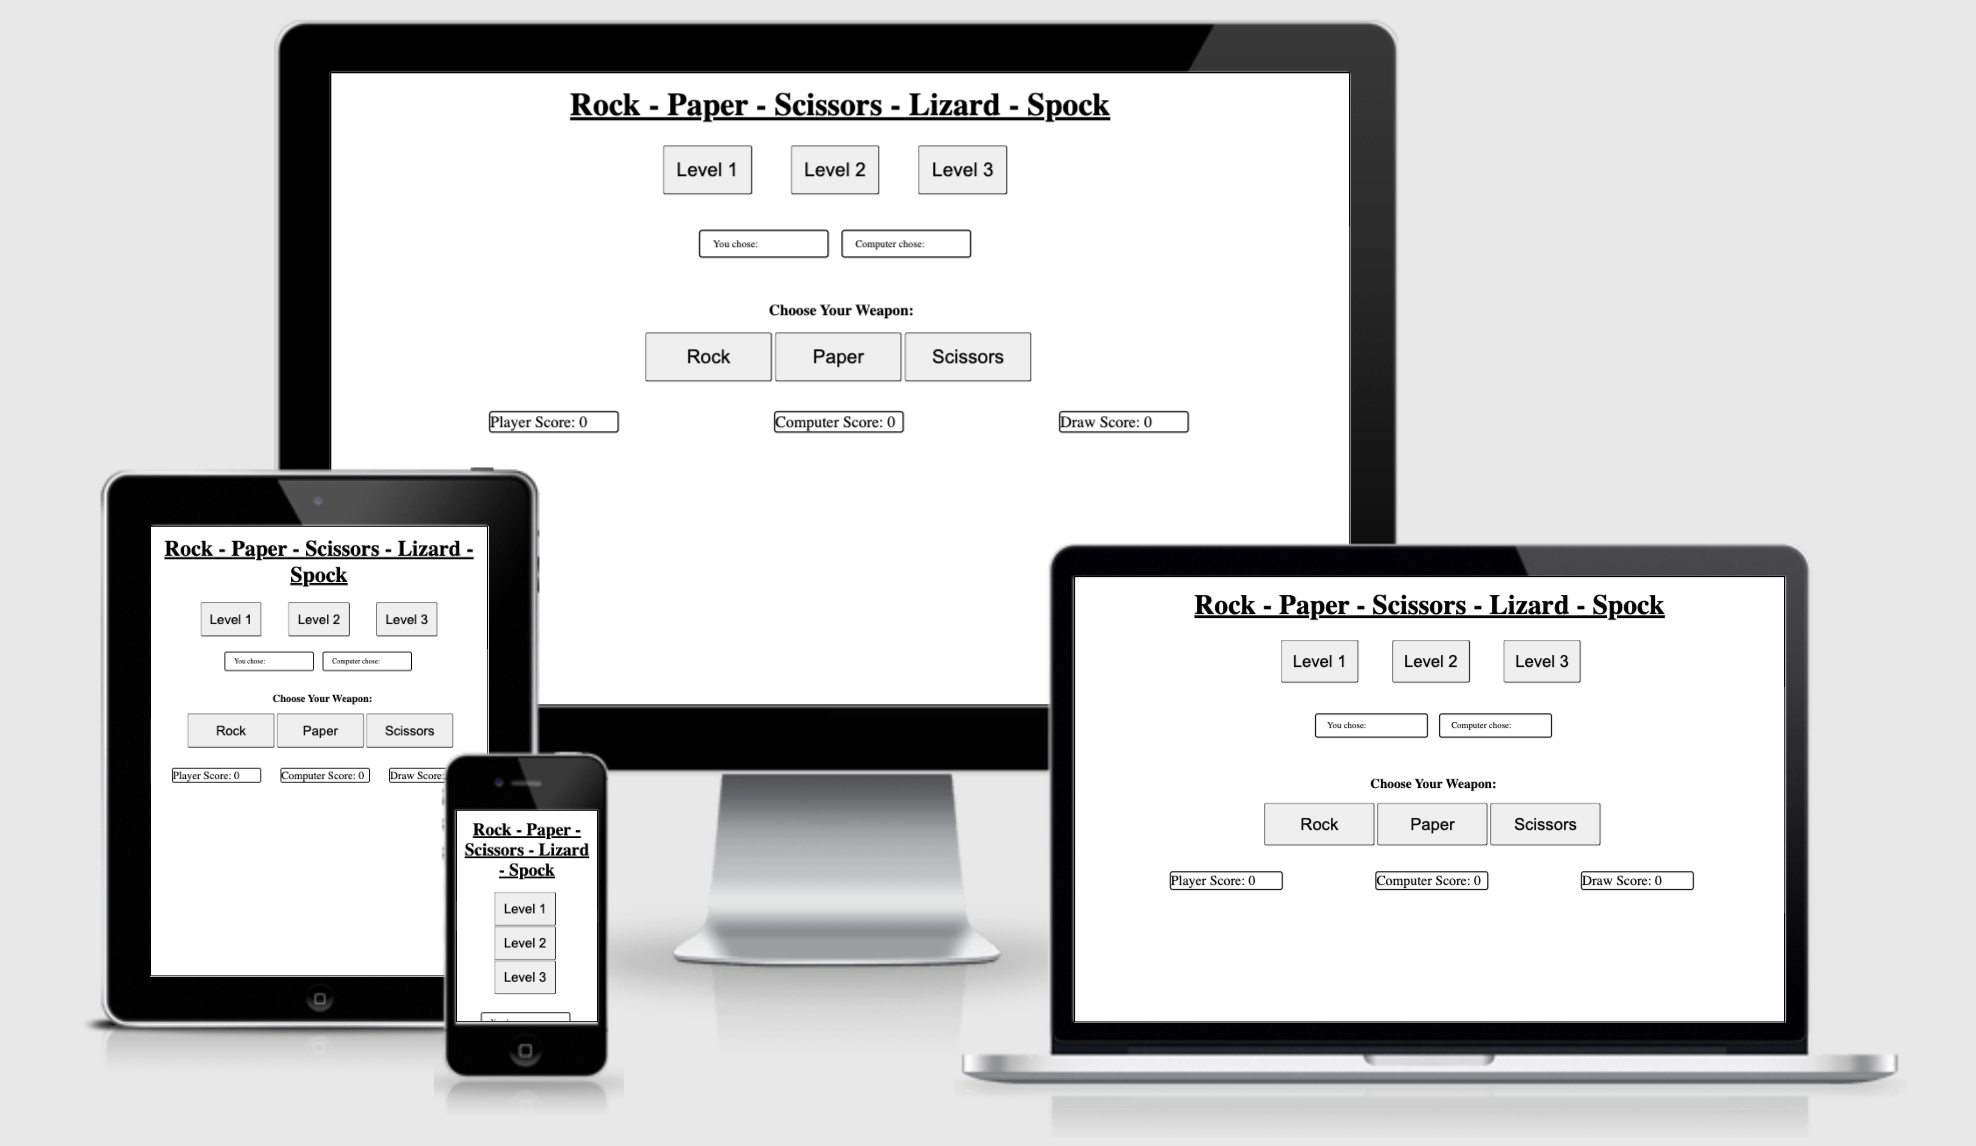
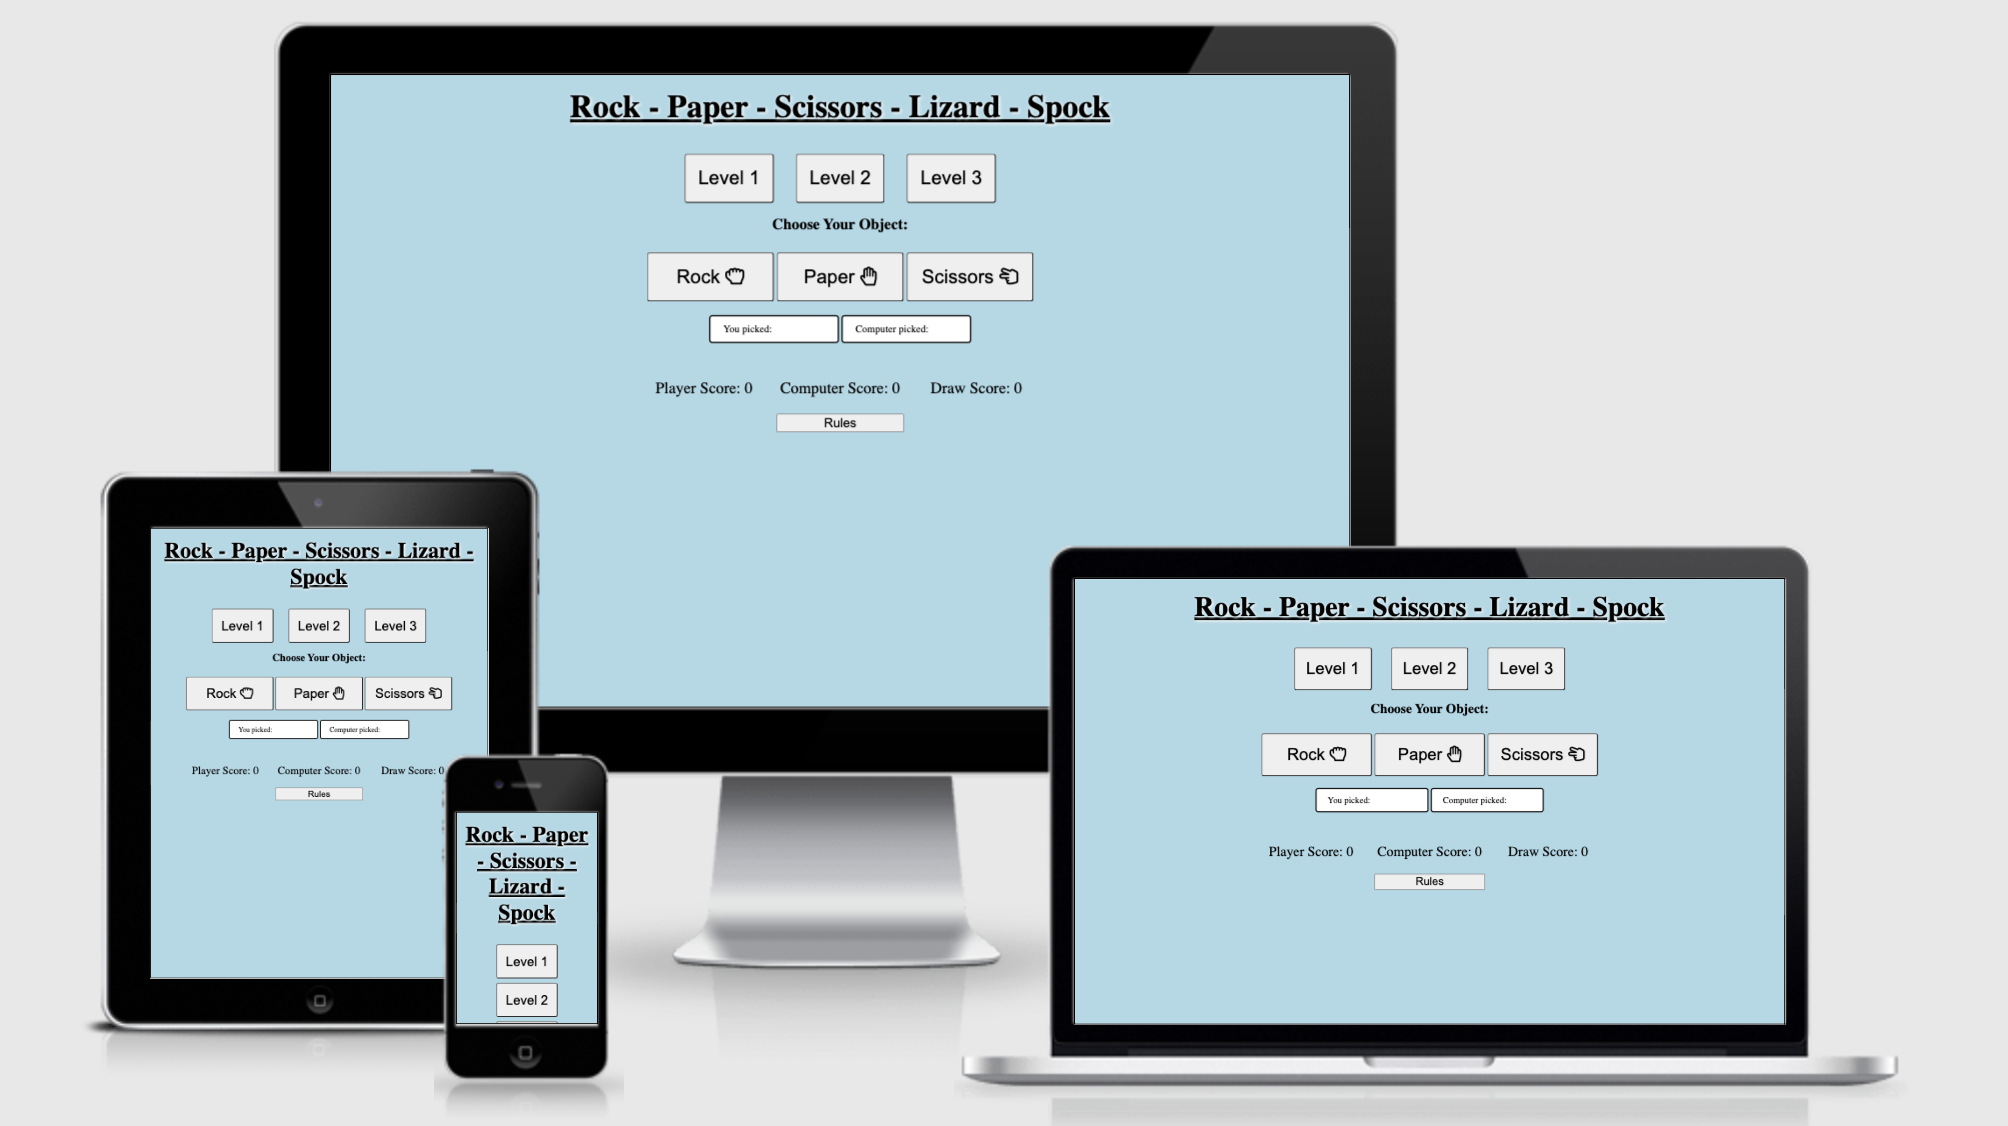
after going through and changing most of my css to make the responsivity better i also implemented a rule button for the user aswell

diff --git a/assets/css/styles.css b/assets/css/styles.css
@@ -4,7 +4,7 @@ html{
     height:100% ;
     padding: 0;
     margin: 0;
-    background-color:lightblue ;
+    background-image: linear-gradient(rgb(198, 241, 255), rgb(95, 168, 192));
 }
 p{
     margin-left: 20px;

diff --git a/README.md b/README.md
@@ -37,6 +37,11 @@ RPSLS is a web based rock paper scissors game. I created the game in such a way 
 
 ![Score Section](assets/Images/scoreDisplay.png)
 
+## Rules Section
+- This buttons pulls up the rules for the game using an alert.
+
+![Rules](assets/Images/rules.png)
+
 ## Features left to implement.
 - In the future i would like to add in some sort of animation of the two selections going head to head
 - In the future i would like to add s system where you only get a certain amount of tries and who ever has the most points wins overall.
@@ -56,17 +61,19 @@ RPSLS is a web based rock paper scissors game. I created the game in such a way 
 - The intended use of this section was to allow the user the option to pick which weapon/item they wanted and to increase the amount of options available when the leverl is increased. i made sure this worked by using the same group of people as before and getting them to play the game until the found a bug, they reported that the buttons worked consistantly.
 
 ## Score Section.
--The intened use of this section was to display the score of who won and how many draws there were. to test that it worked i used the same method as the option selector, the group found a bug which was when the game is first loaded the score wasnt going up you had to select a level before being able to play, to fic this bug i hard coded it so when the game is first loaded is automatically selects level 1 by default.
+- The intened use of this section was to display the score of who won and how many draws there were. to test that it worked i used the same method as the option selector, the group found a bug which was when the game is first loaded the score wasnt going up you had to select a level before being able to play, to fic this bug i hard coded it so when the game is first loaded is automatically selects level 1 by default.
+
+## Responsivity
+- when dealing with responsivity the first time i took the aproach of having lots if different media queries for each screen size, after testing and consulting with the test group i found this way to be long and not effective at all. so to fix the problem i went back throuhg my code and changed the structure of my css and html to better suit responsivity. after a few trial and errors i was able to get the reponsivity working so i went back the the test group and consulted with them and let them test it, they reported it was a major improvment to the first attempt and works as it should.
 
 # Validator Testing.
 
 ## HTML
 ![html validated](assets/Images/htmlVal.png)
-## CSS
-First is for default styling and second is for media queries
 
+## CSS
 ![css validated](assets/Images/cssVal.png)
-![media qeuries](assets/Images/mediaVal.png)
+
 ## JS
 ![js validated](assets/Images/jsVal.png)
 
@@ -85,5 +92,8 @@ This section should describe the process you went through to deploy the project 
 
 ## Credits/Content
   Credit to Code Institue for the Development wording
+
   The icons in the footer were taken from [Font Awesome](https://fontawesome.com/)
+
+
 
